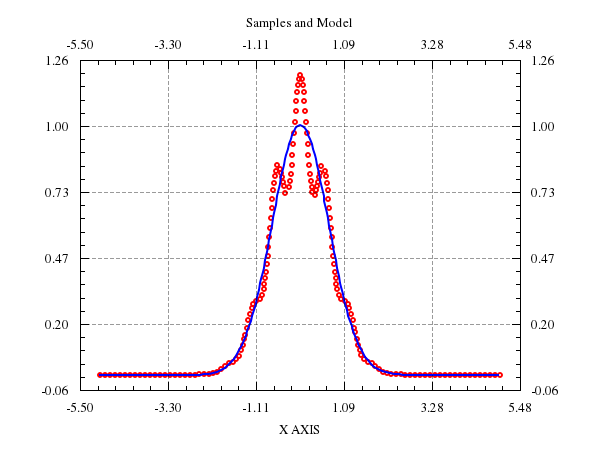
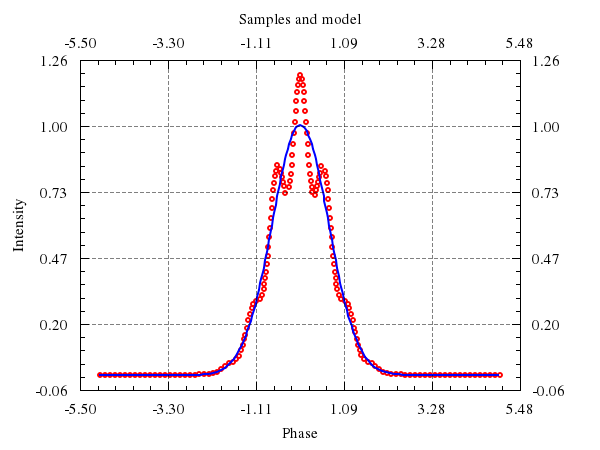
Added CMake

diff --git a/QSL/qsl_xyaxis.cpp b/QSL/qsl_xyaxis.cpp
@@ -209,7 +209,7 @@ void QslXYAxis::Private::paintLeft(QPainter *painter,
     int y = scale->yMaxPix();
     double coord = scale->yMin();
     int txtHei = fm->height() *0.666;
-    int txtWid;
+    int txtWid, maxTxtWid = 0;
 
     painter->drawLine(x, y, x, y-length);
 
@@ -217,6 +217,7 @@ void QslXYAxis::Private::paintLeft(QPainter *painter,
         if (k%5 == 0) {
             QString numLabel = QString::number(coord,'f',2);
             txtWid = fm->width(numLabel);
+            if (txtWid > maxTxtWid) maxTxtWid = txtWid;
             painter->drawLine(x, y, x+8, y);
             painter->drawText(x-txtWid-txtHei, y+txtHei/2, numLabel);
         }
@@ -226,6 +227,13 @@ void QslXYAxis::Private::paintLeft(QPainter *painter,
         coord += divSiz;
         y = scale->mapY(coord);
     }
+    painter->save();
+    painter->rotate(-90.0);
+    txtWid = fm->width(p->name());
+    x = -scale->yMinPix() - (scale->heightPix() + txtWid)/2;
+    y = scale->xMinPix() - maxTxtWid - 2*txtHei;
+    painter->drawText(x,y,p->name());
+    painter->restore();
 }
 
 
@@ -237,7 +245,7 @@ void QslXYAxis::Private::paintRight(QPainter *painter,
     int y = scale->yMaxPix();
     double coord = scale->yMin();
     int txtHei = fm->height() *0.666;
-    int txtWid;
+    int txtWid, maxTxtWid = 0;
 
     painter->drawLine(x, y, x, y-length);
 
@@ -245,6 +253,7 @@ void QslXYAxis::Private::paintRight(QPainter *painter,
         if (k%5 == 0) {
             QString numLabel = QString::number(coord,'f',2);
             txtWid = fm->width(numLabel);
+            if (txtWid > maxTxtWid) maxTxtWid = txtWid;
             painter->drawLine(x, y, x-8, y);
             painter->drawText(x+txtHei, y+txtHei/2, numLabel);
         }
@@ -254,6 +263,13 @@ void QslXYAxis::Private::paintRight(QPainter *painter,
         coord += divSiz;
         y = scale->mapY(coord);
     }
+    painter->save();
+    painter->rotate(-90.0);
+    txtWid = fm->width(p->name());
+    x = -scale->yMinPix() - (scale->heightPix() + txtWid)/2;
+    y = scale->xMaxPix() + maxTxtWid + 3*txtHei;
+    painter->drawText(x,y,p->name());
+    painter->restore();
 }
 
 

diff --git a/QSL/qsl_rectscale.cpp b/QSL/qsl_rectscale.cpp
@@ -46,10 +46,10 @@ QslRectScale::QslRectScale(const QString &name,
     QslScale(name,chart),
     m(new Private)
 {
-    m->axis.append( new QslXYAxis(QslXYAxis::TopAxis, "TopAxis", this));
-    m->axis.append( new QslXYAxis(QslXYAxis::BottomAxis, "BottomAxis", this));
-    m->axis.append( new QslXYAxis(QslXYAxis::LeftAxis, "LeftAxis", this));
-    m->axis.append( new QslXYAxis(QslXYAxis::RightAxis, "RightAxis", this));
+    m->axis.append( new QslXYAxis(QslXYAxis::TopAxis, "QSL Chart", this));
+    m->axis.append( new QslXYAxis(QslXYAxis::BottomAxis, "X", this));
+    m->axis.append( new QslXYAxis(QslXYAxis::LeftAxis, "Y", this));
+    m->axis.append( new QslXYAxis(QslXYAxis::RightAxis, "", this));
     m->axis.append( new QslXYAxis(QslXYAxis::Grid, "Grid", this));
     axis(QslXYAxis::Grid)->setVisible(false);
     m->xLowBound = m->xUpBound = 80.0;
@@ -179,6 +179,20 @@ void QslRectScale::update()
 
     m->width = m->xMax - m->xMin;
     m->height = m->yMax - m->yMin;
+}
+
+
+void QslRectScale::setXrange(double xi, double xf)
+{
+    m->xMin = xi;
+    m->xMax = xf;
+}
+
+
+void QslRectScale::setYrange(double yi, double yf)
+{
+    m->yMin = yi;
+    m->yMax = yf;
 }
 
 

diff --git a/QSL/qsl_chartview.cpp b/QSL/qsl_chartview.cpp
@@ -18,8 +18,12 @@
  */
 
 #include "qsl_chartview.h"
-#include <QtWidgets>
 
+#if QT_VERSION > QT_VERSION_CHECK(5,0,0)
+#  include <QtWidgets>
+#else
+#  include <QtGui>
+#endif
 
 class QslChartView::Private
 {
@@ -34,6 +38,7 @@ QslChartView::QslChartView(QWidget *parent) :
     m(new Private)
 {
     setMinimumSize(250,250);
+    resize(600,450);
 }
 
 
@@ -43,9 +48,9 @@ QslChartView::QslChartView(const QString &title,
     QWidget(parent),
     m(new Private)
 {
-    resize(width,height);
     setWindowTitle(title);
     setMinimumSize(250,250);
+    resize(width,height);
 }
 
 

diff --git a/test.cpp b/test.cpp
@@ -17,8 +17,8 @@
  * If not, see <http://www.gnu.org/licenses/>.
  */
 
-#include <QtWidgets>
-#include "qsl_chartview.h"
+#include <QApplication>
+#include <QSL/qsl_chartview.h>
 
 
 int main(int argc, char *argv[])
@@ -43,6 +43,9 @@ int main(int argc, char *argv[])
         Qt::blue, QslXYPlot::Line);
 
     QslRectScale scale;
+    scale.axis(QslXYAxis::TopAxis)->setName("Samples and model");
+    scale.axis(QslXYAxis::LeftAxis)->setName("Intensity");
+    scale.axis(QslXYAxis::BottomAxis)->setName("Phase");
 
     scale.add(samplesPlot);
     scale.add(modelPlot);

diff --git a/QSL/qsl_xyplot.cpp b/QSL/qsl_xyplot.cpp
@@ -76,6 +76,15 @@ void QslXYPlot::setData(const QslVector<double> &x,
 }
 
 
+void QslXYPlot::updateData(const QslVector<double> &x,
+                           const QslVector<double> &y)
+{
+    m->x = x;
+    m->y = y;
+    emit dataChange(this);
+}
+
+
 void QslXYPlot::setScatter(Scatter scatter)
 {
     if (m->scatter != scatter) {

diff --git a/QSL/qsl_xyplot.h b/QSL/qsl_xyplot.h
@@ -59,6 +59,9 @@ public slots:
     void setData(const QslVector<double> &x,
                  const QslVector<double> &y);
 
+    void updateData(const QslVector<double> &x,
+                    const QslVector<double> &y);
+
     void setScatter(Scatter scatter);
 
 protected:

diff --git a/QSL/qsl_rectscale.h b/QSL/qsl_rectscale.h
@@ -62,6 +62,10 @@ public slots:
 
     virtual void update();
 
+    void setXrange(double xi, double xf);
+
+    void setYrange(double yi, double yf);
+
 private:
 
     QSL_PRIVATE_DECLS
